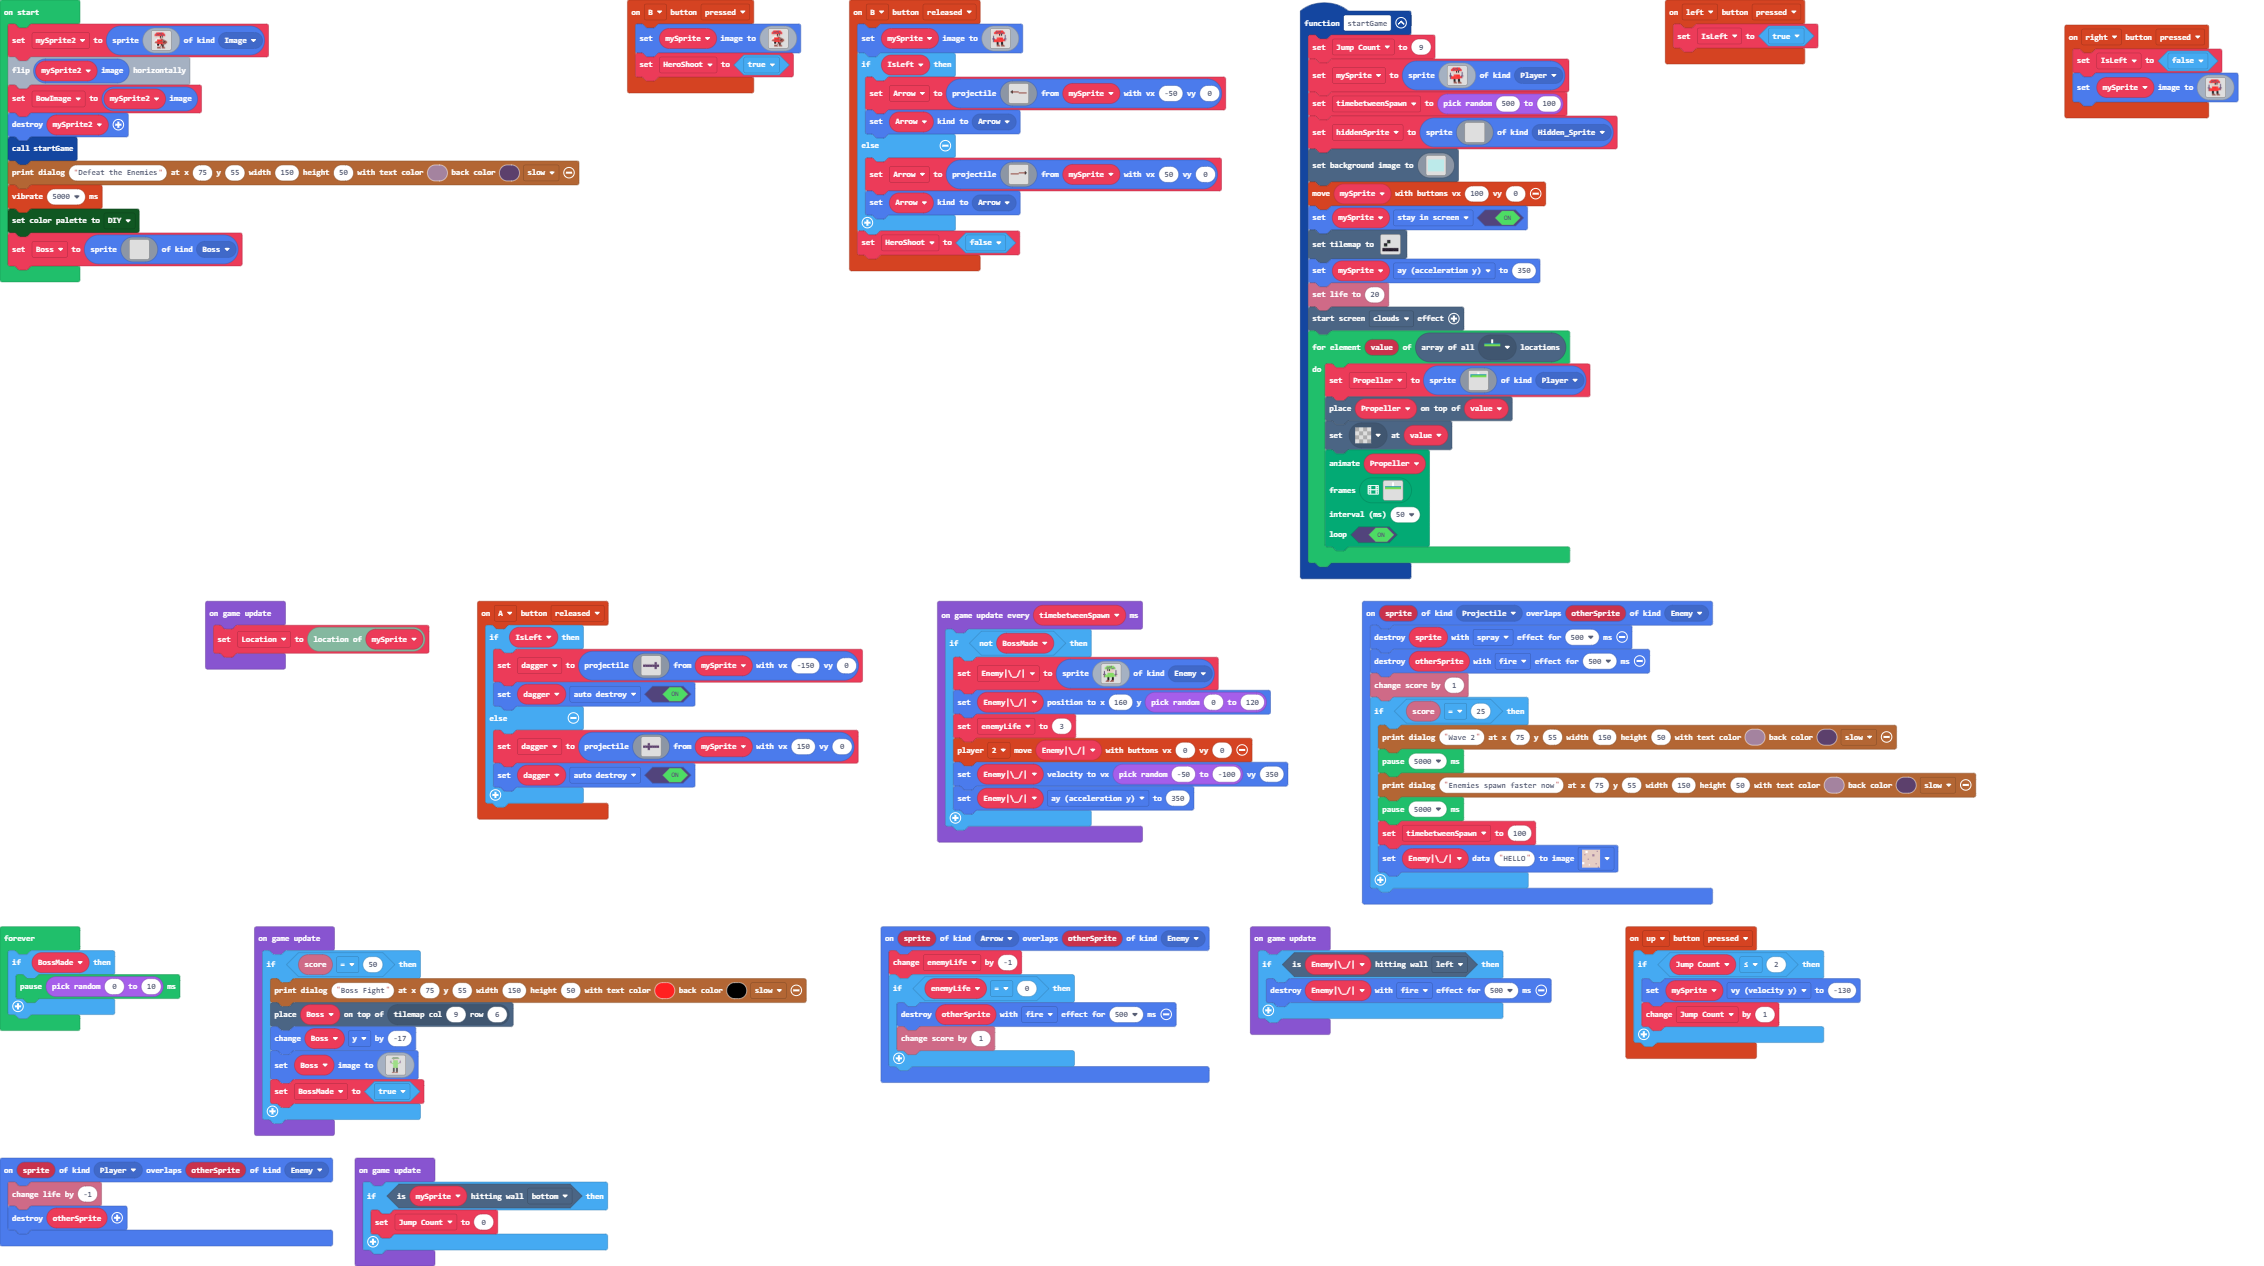
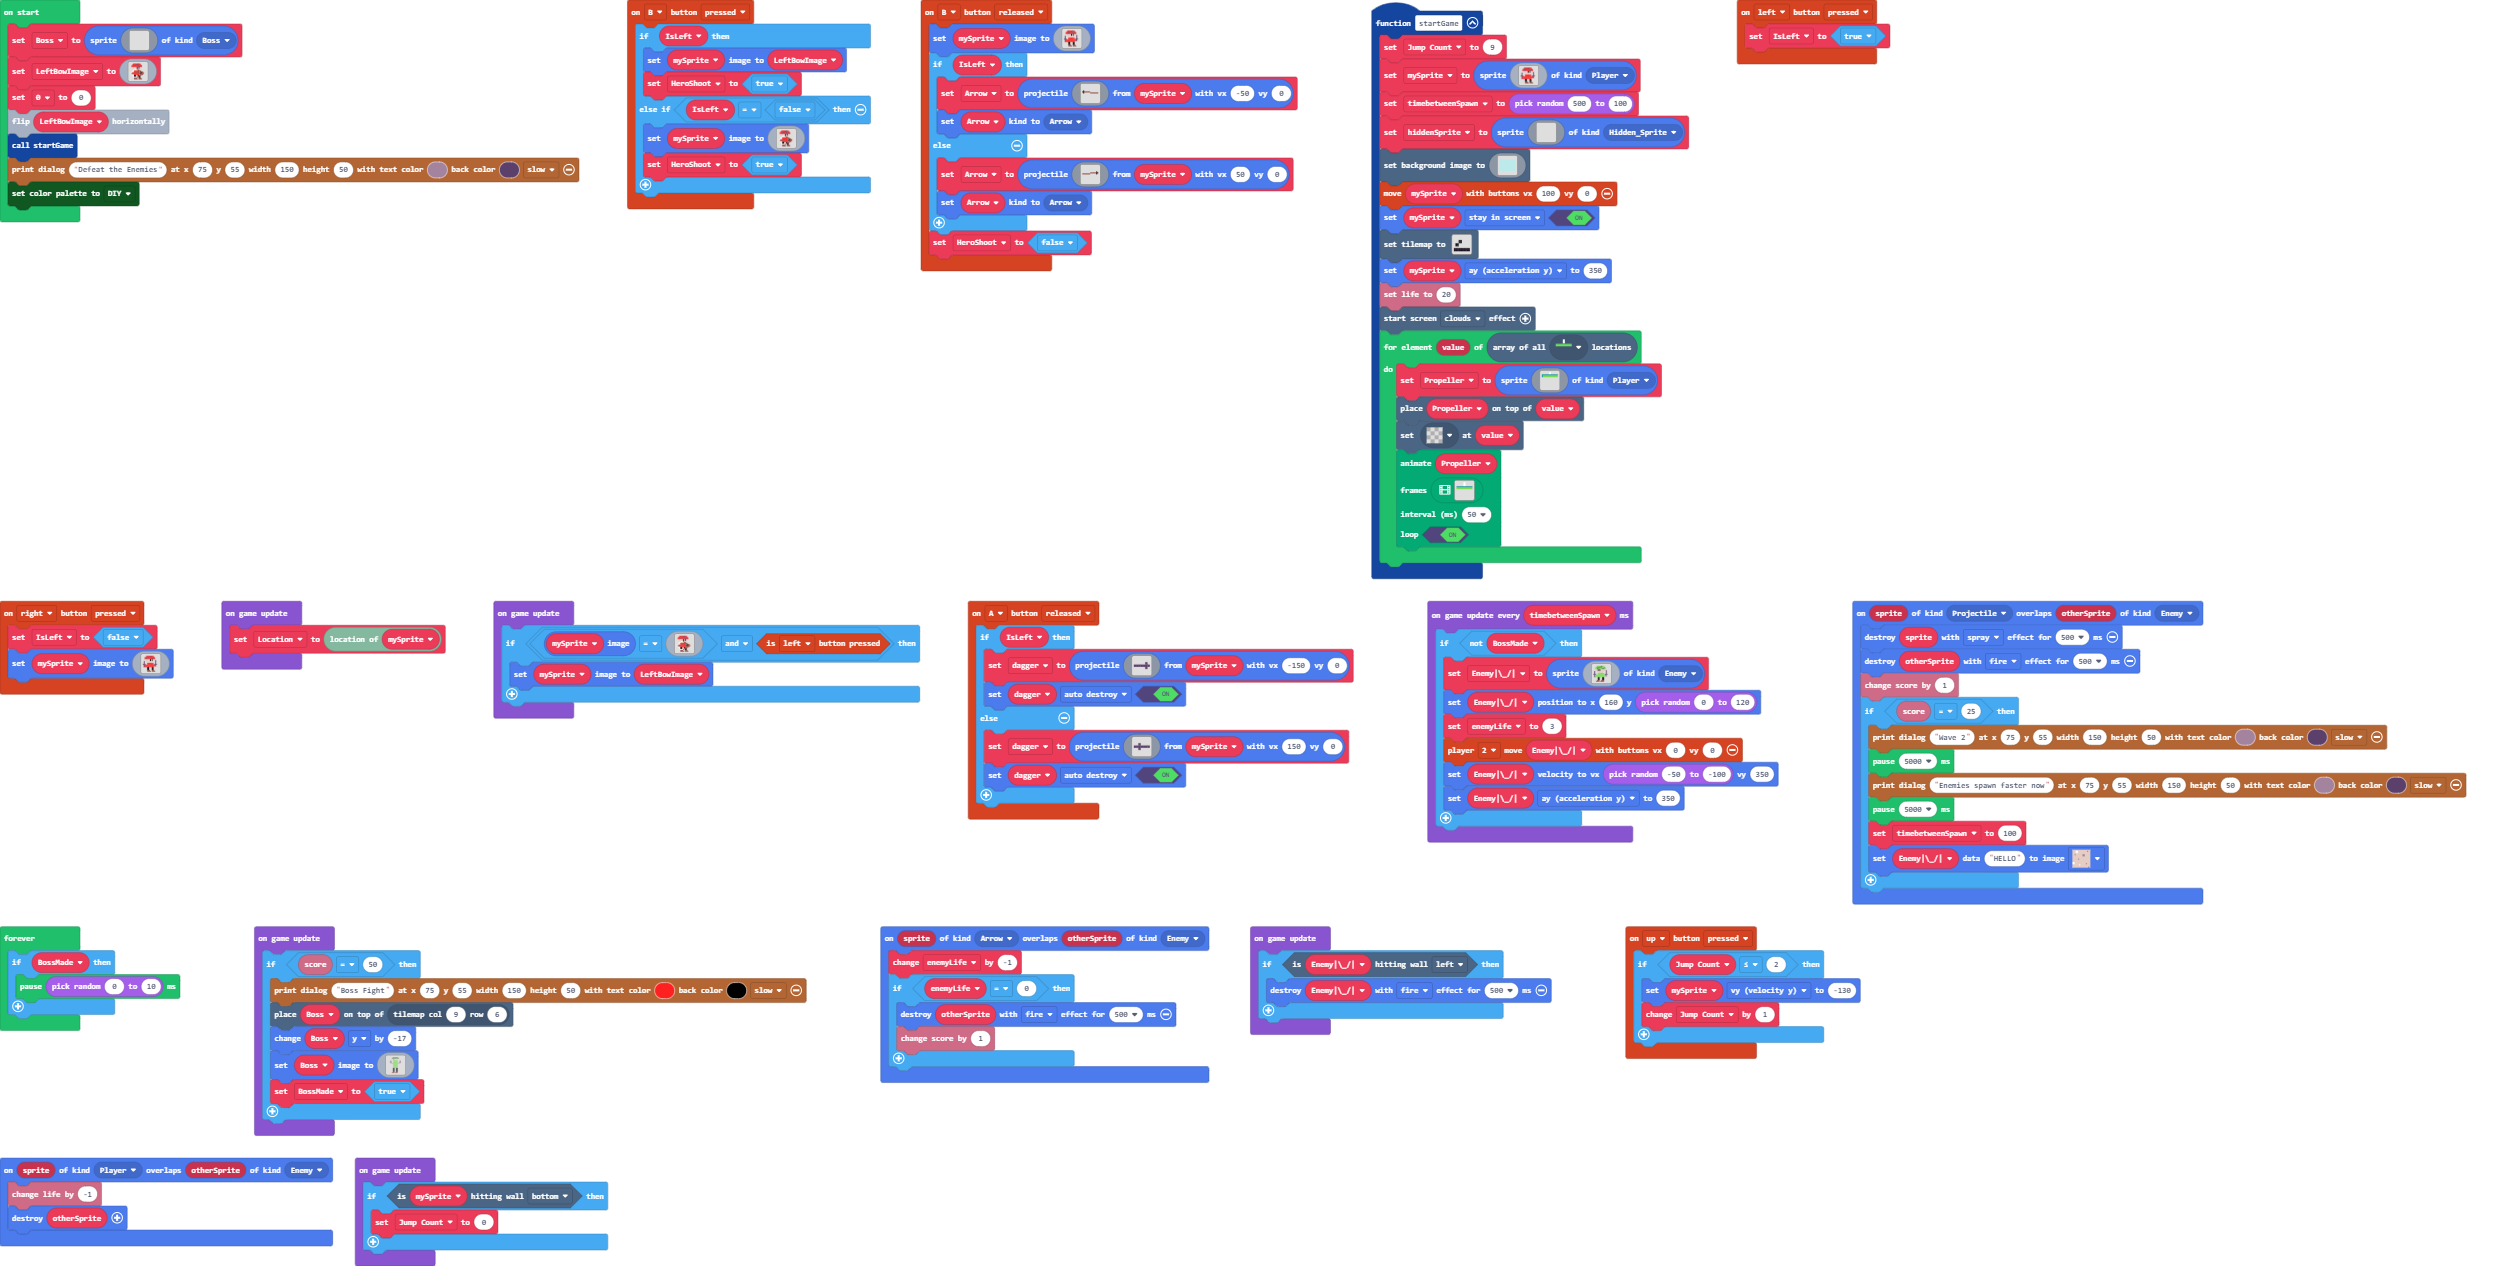
Update main.blocks, main.ts

Changed region(s): [[0.0, 0.0, 0.9894, 1.0], [0.8966, 0.0, 0.9894, 0.0924]]

diff --git a/main.ts b/main.ts
@@ -14,27 +14,32 @@ controller.up.onEvent(ControllerButtonEvent.Pressed, function () {
     }
 })
 controller.B.onEvent(ControllerButtonEvent.Pressed, function () {
-    mySprite.setImage(img`
-        . . . 2 2 2 2 2 c 2 2 . . . . . 
-        . . 2 c 2 2 c c 2 2 2 2 . . . . 
-        . 2 2 2 c c 2 2 c 2 2 c 2 . . . 
-        . 2 2 c 2 2 2 2 2 c c 2 2 . . . 
-        . . d d d d d f d f d d . . . . 
-        . . d d d d d f d f d d . . . . 
-        . . . d 1 1 1 e d d d . . . . . 
-        . . . 1 d d d d e e . . . . . . 
-        . . 1 . 2 2 2 2 2 e e e . . . . 
-        . 1 . . 2 2 2 2 2 2 . f e e d . 
-        1 d 2 2 2 e e e e e e e f e e d 
-        1 e e e e 2 2 2 2 2 2 f 2 e e d 
-        . 1 . . 2 2 2 2 2 2 . e e e . . 
-        . . 1 . f f . . f e e e . . . . 
-        . . . 1 f f . . e e f . . . . . 
-        . . . . 1 1 1 e . f f . . . . . 
-        . . . . e e e . . e e e . . . . 
-        . . . . e e e e . e e e e . . . 
-        `)
-    HeroShoot = true
+    if (IsLeft) {
+        mySprite.setImage(LeftBowImage)
+        HeroShoot = true
+    } else if (IsLeft == false) {
+        mySprite.setImage(img`
+            . . . 2 2 2 2 2 c 2 2 . . . . . 
+            . . 2 c 2 2 c c 2 2 2 2 . . . . 
+            . 2 2 2 c c 2 2 c 2 2 c 2 . . . 
+            . 2 2 c 2 2 2 2 2 c c 2 2 . . . 
+            . . d d d d d f d f d d . . . . 
+            . . d d d d d f d f d d . . . . 
+            . . . d 1 1 1 e d d d . . . . . 
+            . . . 1 d d d d e e . . . . . . 
+            . . 1 . 2 2 2 2 2 e e e . . . . 
+            . 1 . . 2 2 2 2 2 2 . f e e d . 
+            1 d 2 2 2 e e e e e e e f e e d 
+            1 e e e e 2 2 2 2 2 2 f 2 e e d 
+            . 1 . . 2 2 2 2 2 2 . e e e . . 
+            . . 1 . f f . . f e e e . . . . 
+            . . . 1 f f . . e e f . . . . . 
+            . . . . 1 1 1 e . f f . . . . . 
+            . . . . e e e . . e e e . . . . 
+            . . . . e e e e . e e e e . . . 
+            `)
+        HeroShoot = true
+    }
 })
 function startGame () {
     Jump_Count = 9
@@ -519,42 +524,14 @@ let Enemy_: Sprite = null
 let Arrow: Sprite = null
 let enemyLife = 0
 let dagger: Sprite = null
-let IsLeft = false
 let Propeller: Sprite = null
 let hiddenSprite: Sprite = null
 let timebetweenSpawn = 0
 let HeroShoot = false
+let IsLeft = false
 let mySprite: Sprite = null
 let Jump_Count = 0
-let mySprite2 = sprites.create(img`
-    . . . 2 2 2 2 2 c 2 2 . . . . . 
-    . . 2 c 2 2 c c 2 2 2 2 . . . . 
-    . 2 2 2 c c 2 2 c 2 2 c 2 . . . 
-    . 2 2 c 2 2 2 2 2 c c 2 2 . . . 
-    . . d d d d d f d f d d . . . . 
-    . . d d d d d f d f d d . . . . 
-    . . . d 1 1 1 e d d d . . . . . 
-    . . . 1 d d d d e e . . . . . . 
-    . . 1 . 2 2 2 2 2 e e e . . . . 
-    . 1 . . 2 2 2 2 2 2 . f e e d . 
-    1 d 2 2 2 e e e e e e e f e e d 
-    1 e e e e 2 2 2 2 2 2 f 2 e e d 
-    . 1 . . 2 2 2 2 2 2 . e e e . . 
-    . . 1 . f f . . f e e e . . . . 
-    . . . 1 f f . . e e f . . . . . 
-    . . . . 1 1 1 e . f f . . . . . 
-    . . . . e e e . . e e e . . . . 
-    . . . . e e e e . e e e e . . . 
-    `, SpriteKind.Image)
-mySprite2.image.flipX()
-let BowImage = mySprite2.image
-mySprite2.destroy()
-startGame()
-story.printDialog("Defeat the Enemies", 75, 55, 50, 150, 11, 12, story.TextSpeed.Slow)
-controller.vibrate(5000)
-color.setPalette(
-color.DIY
-)
+let LeftBowImage: Image = null
 let Boss = sprites.create(img`
     . . . . . . . . . . . . . . . . . . . . . . . . . . . . . . . . . . . . 
     . . . . . . . . . . . . . . . . . . . . . . . . . . . . . . . . . . . . 
@@ -607,8 +584,59 @@ let Boss = sprites.create(img`
     . . . . . . . . . . . . . . . . . . . . . . . . . . . . . . . . . . . . 
     . . . . . . . . . . . . . . . . . . . . . . . . . . . . . . . . . . . . 
     `, SpriteKind.Boss)
+LeftBowImage = img`
+    . . . 2 2 2 2 2 c 2 2 . . . . . 
+    . . 2 c 2 2 c c 2 2 2 2 . . . . 
+    . 2 2 2 c c 2 2 c 2 2 c 2 . . . 
+    . 2 2 c 2 2 2 2 2 c c 2 2 . . . 
+    . . d d d d d f d f d d . . . . 
+    . . d d d d d f d f d d . . . . 
+    . . . d 1 1 1 e d d d . . . . . 
+    . . . 1 d d d d e e . . . . . . 
+    . . 1 . 2 2 2 2 2 e e e . . . . 
+    . 1 . . 2 2 2 2 2 2 . f e e d . 
+    1 d 2 2 2 e e e e e e e f e e d 
+    1 e e e e 2 2 2 2 2 2 f 2 e e d 
+    . 1 . . 2 2 2 2 2 2 . e e e . . 
+    . . 1 . f f . . f e e e . . . . 
+    . . . 1 f f . . e e f . . . . . 
+    . . . . 1 1 1 e . f f . . . . . 
+    . . . . e e e . . e e e . . . . 
+    . . . . e e e e . e e e e . . . 
+    `
+let _0 = 0
+LeftBowImage.flipX()
+startGame()
+story.printDialog("Defeat the Enemies", 75, 55, 50, 150, 11, 12, story.TextSpeed.Slow)
+color.setPalette(
+color.DIY
+)
 game.onUpdate(function () {
     Location = tiles.locationOfSprite(mySprite)
+})
+game.onUpdate(function () {
+    if (mySprite.image == img`
+        . . . 2 2 2 2 2 c 2 2 . . . . . 
+        . . 2 c 2 2 c c 2 2 2 2 . . . . 
+        . 2 2 2 c c 2 2 c 2 2 c 2 . . . 
+        . 2 2 c 2 2 2 2 2 c c 2 2 . . . 
+        . . d d d d d f d f d d . . . . 
+        . . d d d d d f d f d d . . . . 
+        . . . d 1 1 1 e d d d . . . . . 
+        . . . 1 d d d d e e . . . . . . 
+        . . 1 . 2 2 2 2 2 e e e . . . . 
+        . 1 . . 2 2 2 2 2 2 . f e e d . 
+        1 d 2 2 2 e e e e e e e f e e d 
+        1 e e e e 2 2 2 2 2 2 f 2 e e d 
+        . 1 . . 2 2 2 2 2 2 . e e e . . 
+        . . 1 . f f . . f e e e . . . . 
+        . . . 1 f f . . e e f . . . . . 
+        . . . . 1 1 1 e . f f . . . . . 
+        . . . . e e e . . e e e . . . . 
+        . . . . e e e e . e e e e . . . 
+        ` && controller.left.isPressed()) {
+        mySprite.setImage(LeftBowImage)
+    }
 })
 game.onUpdate(function () {
     if (info.score() == 50) {
